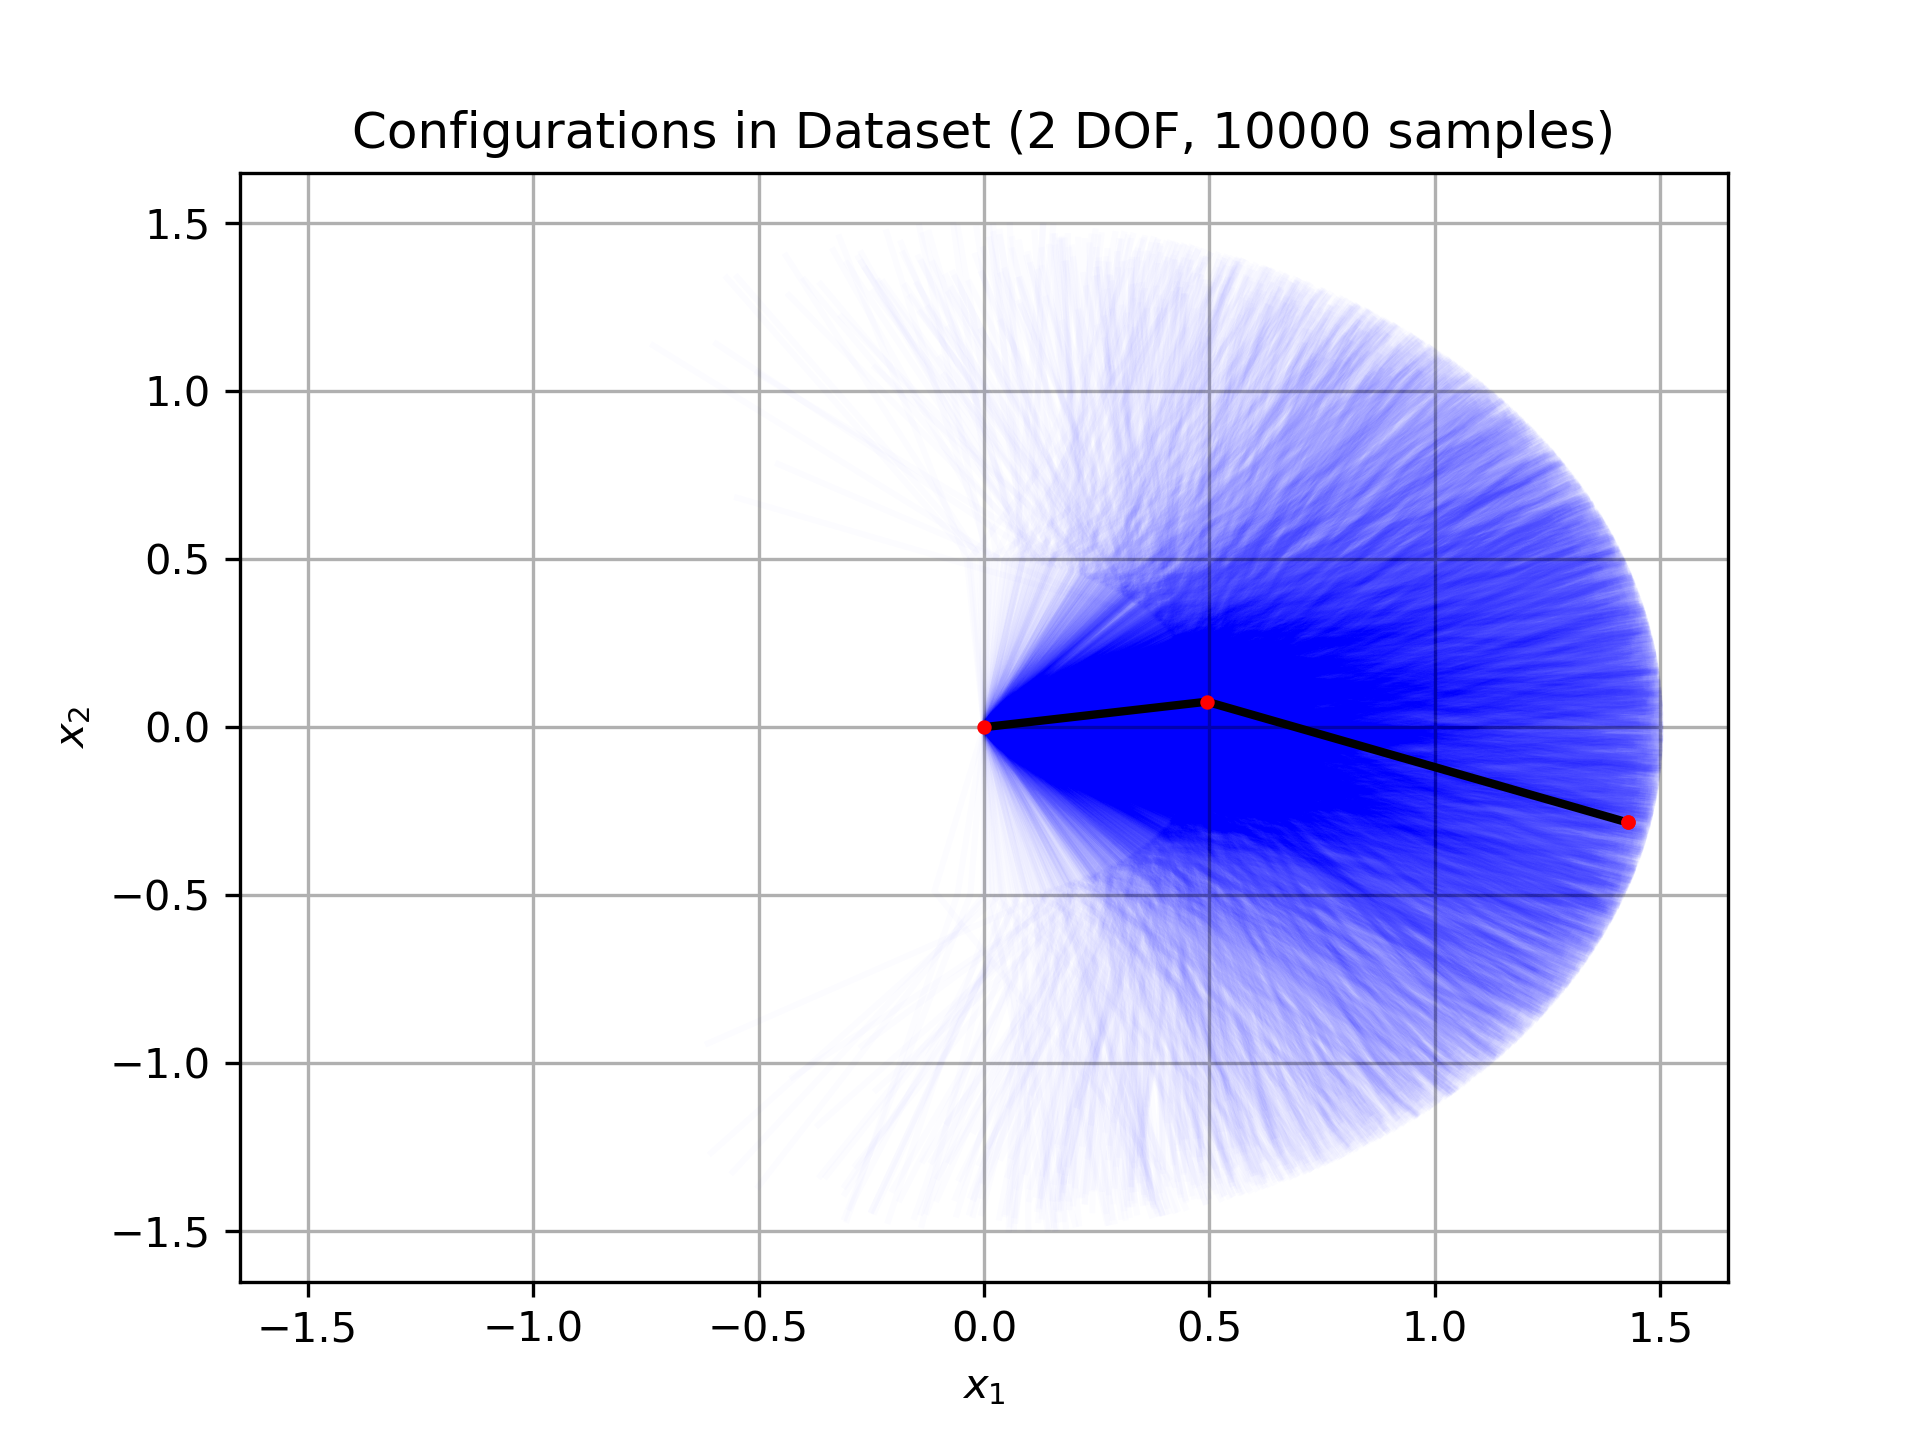
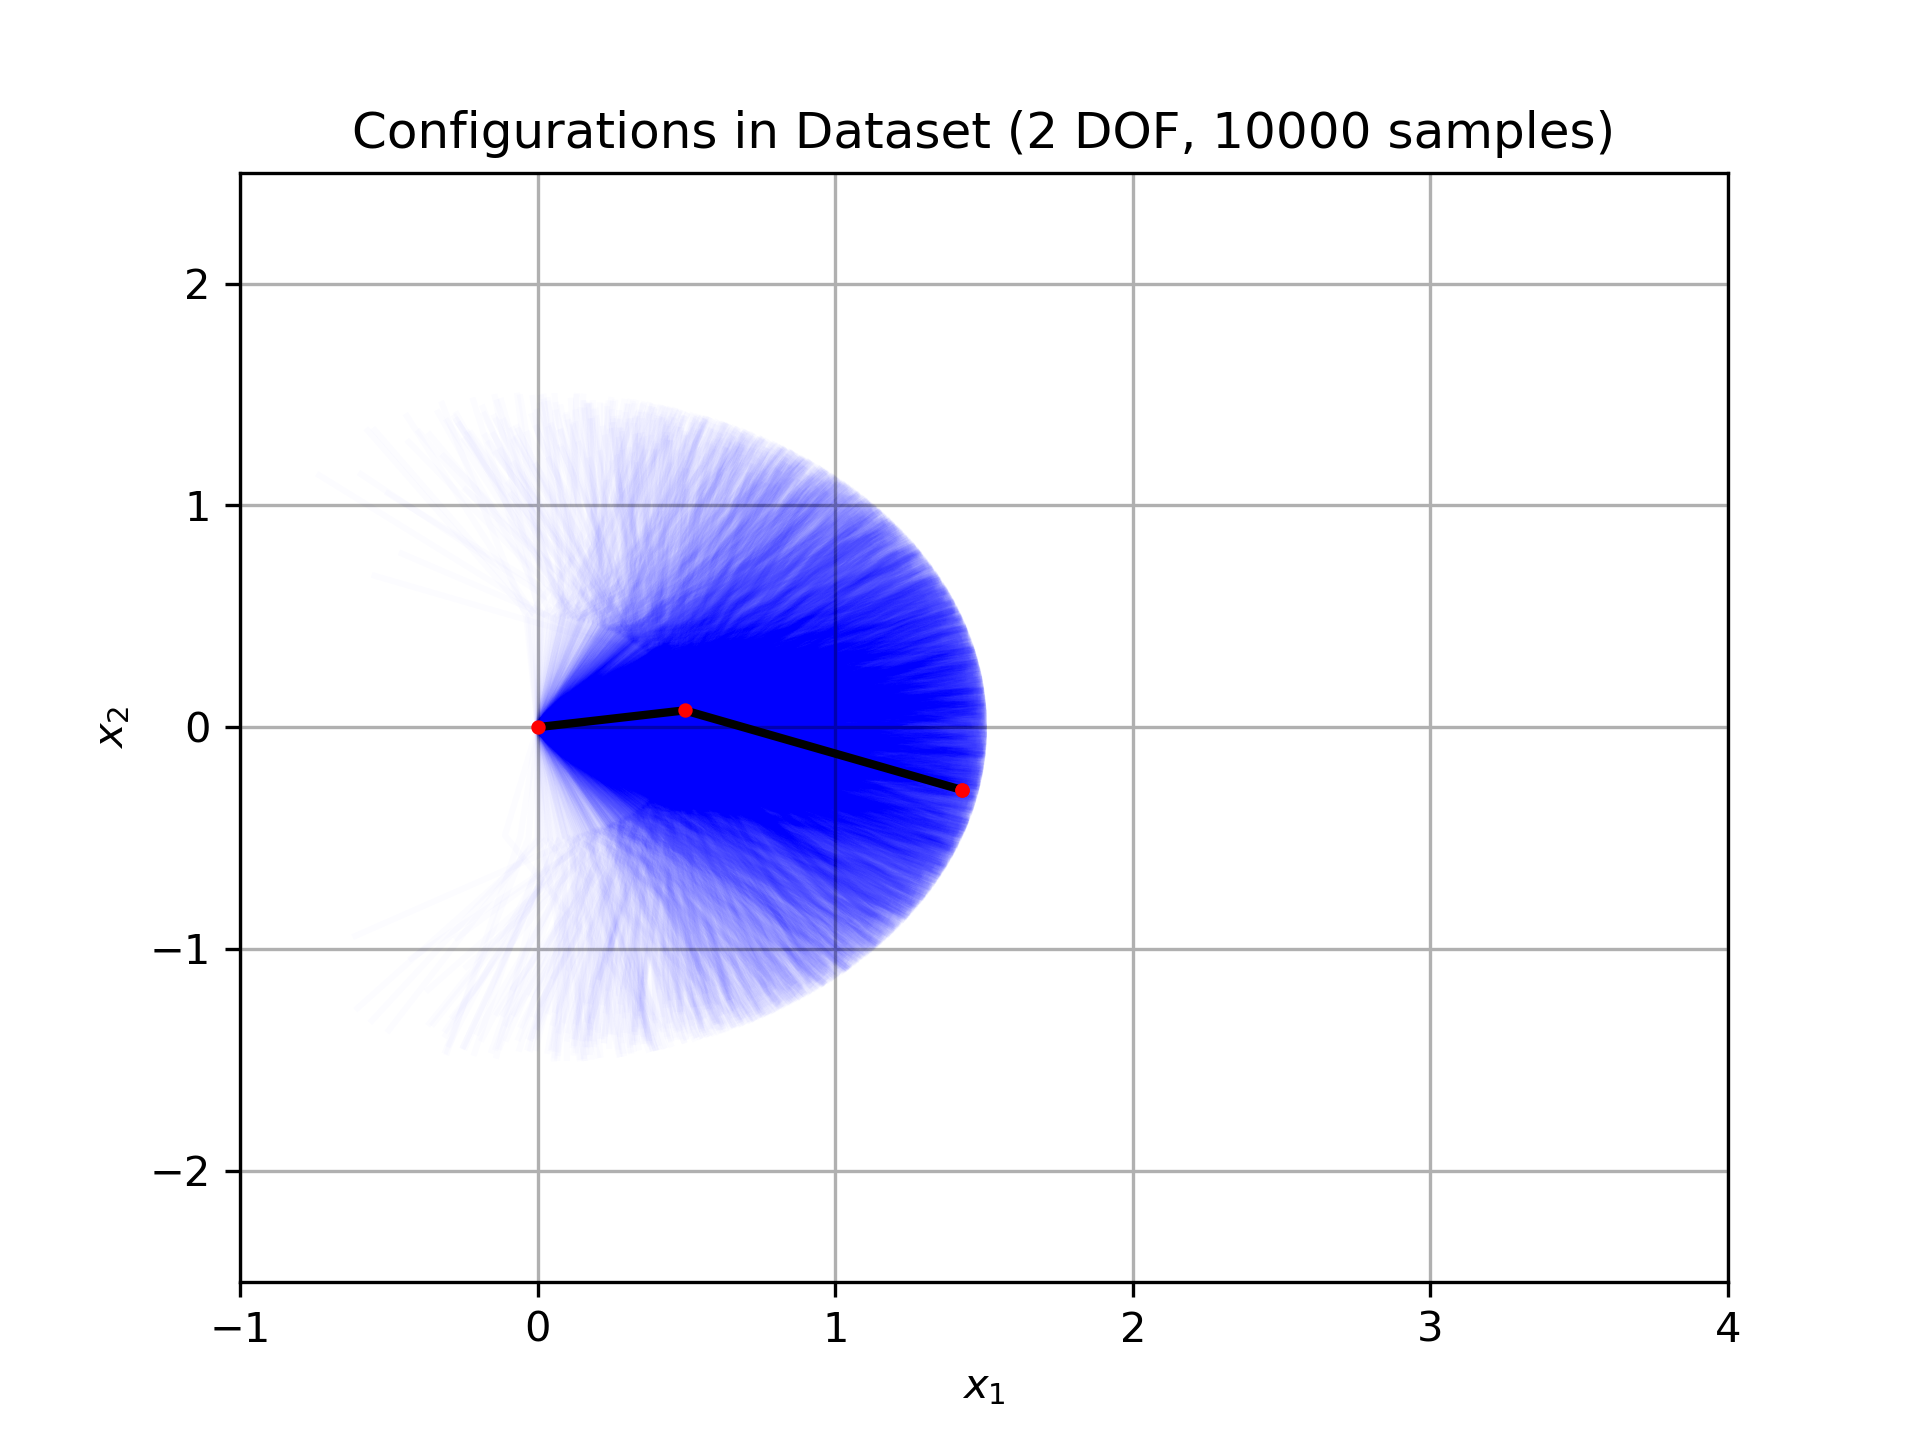
New figures for midterm presentation

diff --git a/src/robotsim_dataset.py b/src/robotsim_dataset.py
@@ -139,6 +139,9 @@ class RobotSimDataset(Dataset):
                 arm[:, 1].flatten(),
                 c='r', s=6, zorder=11)
 
+        ax.set_xlim([-1, 4])
+        ax.set_ylim([-2.5, 2.5])
+
         ax.set_title(
             "Configurations in Dataset ({} DOF, {} samples)". format(
                 self._num_dof, self._num_samples))
